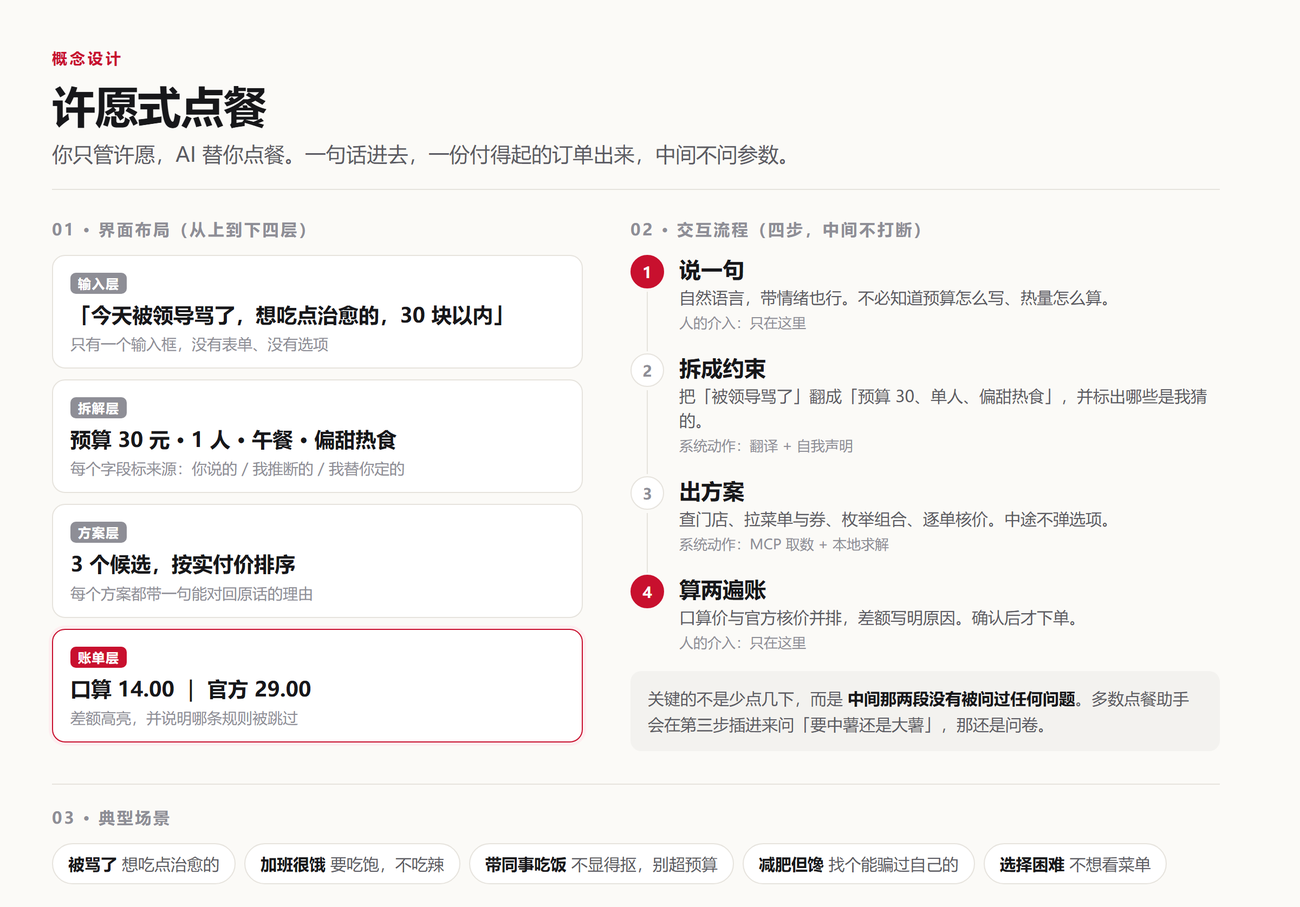
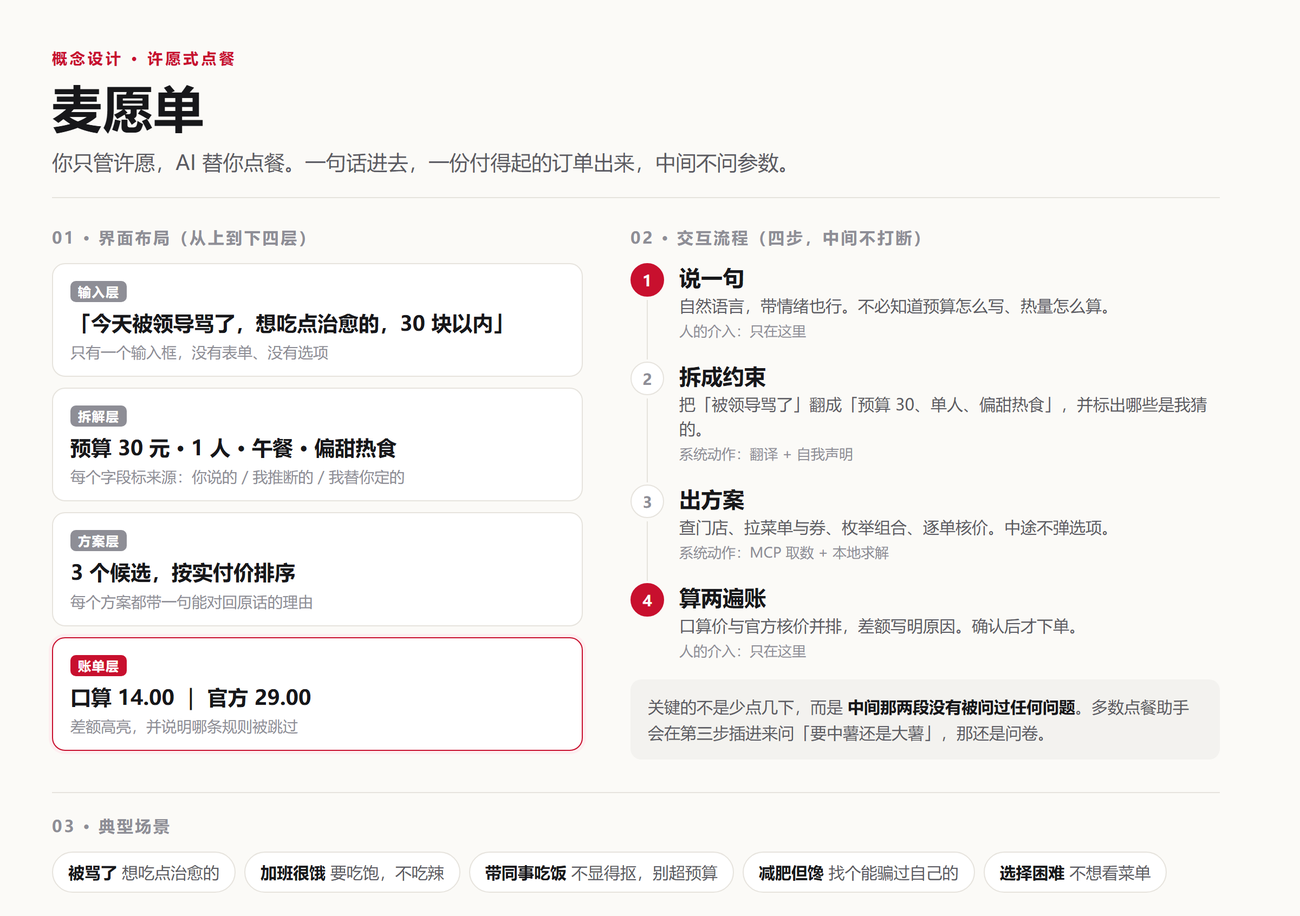
feat: 产品定名「麦愿单」，仓库地址落到 README
- README 标题：麦愿单 · 许愿式点餐
- 安装命令替换为真实仓库地址（原来是占位，clone 命令是断的）
- 演示页 title 与 kicker、概念设计图标题、SKILL.md、模块注释同步
- 概念图重渲染（品牌名 46px，视觉重心落到名字上）

diff --git a/docs/index.html b/docs/index.html
@@ -3,7 +3,7 @@
 <head>
 <meta charset="utf-8">
 <meta name="viewport" content="width=device-width, initial-scale=1">
-<title>许愿式点餐 · 你说愿望，它报价格</title>
+<title>麦愿单 · 你只管许愿，AI 替你点餐</title>
 <link rel="icon" type="image/png" href="logo-32.png">
 <link rel="apple-touch-icon" href="logo.png">
 <style>
@@ -132,7 +132,7 @@
 <body>
 <div class="wrap">
   <header>
-    <div class="kicker">许愿式点餐</div>
+    <div class="kicker">麦愿单 · 许愿式点餐</div>
     <h1>你只管许愿，AI 替你点餐</h1>
     <p class="sub">说一句就够：不用看活动、不用看菜单，预算、套餐、优惠券全部搞定，你只管享受美味。</p>
   </header>
@@ -182,7 +182,7 @@
 </div>
 
 <script>
-const DATA = {"cases": [{"wish": {"raw": "今天被领导骂了一顿，想吃点能治愈的，别超过30块", "budget": 30.0, "people": 1, "meal_slot": "lunch", "moods": ["治愈"], "taste": ["sweet", "warm", "comfort"], "avoid": [], "undecided": false, "source": {"people": "default", "budget": "explicit", "meal_slot": "inferred"}, "notes": []}, "candidates": [{"name": "麦香鸡 + 派", "items": ["麦香鸡", "派"], "codes": ["1450", "9900008752"], "unit_count": 1, "score": 7.03, "reasons": ["命中偏好：sweet"], "price": {"naive": {"label": "AI 式口算", "subtotal": 29.0, "delivery_fee": 0.0, "discount": 15.0, "payable": 14.0, "applied": ["满 70 减 15"], "rejected": [], "notes": ["选了面额最大的「满 70 减 15」，但这单只有 29.00 元，差 41.00 元没到门槛", "另外 4 张券没有参与比较（互斥规则被跳过）"]}, "official": {"label": "官方口径", "subtotal": 29.0, "delivery_fee": 0.0, "discount": 0.0, "payable": 29.0, "applied": [], "rejected": ["满 30 减 6：未达门槛 30 元（当前 29.00 元）", "满 50 减 12：未达门槛 50 元（当前 29.00 元）", "满 70 减 15：未达门槛 70 元（当前 29.00 元）", "小食第二份半价：需同类别两件（小食），当前只有 1 件", "早餐满 15 减 5：仅早餐时段可用，当前是午餐", "甜品第二份 1 元：需同类别两件（甜品），当前只有 0 件", "满 40 减 8（外送专享）：仅外送可用，当前是到店"], "notes": []}, "unit_price": {"naive": 14.0, "official": 29.0}, "units": 1, "gap": 15.0, "gap_pct": 51.7, "verdict": "口算低估了实付金额"}, "payable": 29.0}, {"name": "麦香鸡 + 雪碧", "items": ["麦香鸡", "雪碧"], "codes": ["1450", "3060"], "unit_count": 1, "score": 4.77, "reasons": [], "price": {"naive": {"label": "AI 式口算", "subtotal": 31.0, "delivery_fee": 0.0, "discount": 15.0, "payable": 16.0, "applied": ["满 70 减 15"], "rejected": [], "notes": ["选了面额最大的「满 70 减 15」，但这单只有 31.00 元，差 39.00 元没到门槛", "另外 4 张券没有参与比较（互斥规则被跳过）"]}, "official": {"label": "官方口径", "subtotal": 31.0, "delivery_fee": 0.0, "discount": 6.0, "payable": 25.0, "applied": ["满 30 减 6"], "rejected": ["满 50 减 12：未达门槛 50 元（当前 31.00 元）", "满 70 减 15：未达门槛 70 元（当前 31.00 元）", "小食第二份半价：需同类别两件（小食），当前只有 0 件", "早餐满 15 减 5：仅早餐时段可用，当前是午餐", "甜品第二份 1 元：需同类别两件（甜品），当前只有 0 件", "满 40 减 8（外送专享）：仅外送可用，当前是到店"], "notes": ["按互斥规则只用一张：满 30 减 6（整单金额需达到 30 元）"]}, "unit_price": {"naive": 16.0, "official": 25.0}, "units": 1, "gap": 9.0, "gap_pct": 36.0, "verdict": "口算低估了实付金额"}, "payable": 25.0}, {"name": "麦香鸡 + 阳光柠檬红茶", "items": ["麦香鸡", "阳光柠檬红茶"], "codes": ["1450", "515281"], "unit_count": 1, "score": 4.77, "reasons": [], "price": {"naive": {"label": "AI 式口算", "subtotal": 31.0, "delivery_fee": 0.0, "discount": 15.0, "payable": 16.0, "applied": ["满 70 减 15"], "rejected": [], "notes": ["选了面额最大的「满 70 减 15」，但这单只有 31.00 元，差 39.00 元没到门槛", "另外 4 张券没有参与比较（互斥规则被跳过）"]}, "official": {"label": "官方口径", "subtotal": 31.0, "delivery_fee": 0.0, "discount": 6.0, "payable": 25.0, "applied": ["满 30 减 6"], "rejected": ["满 50 减 12：未达门槛 50 元（当前 31.00 元）", "满 70 减 15：未达门槛 70 元（当前 31.00 元）", "小食第二份半价：需同类别两件（小食），当前只有 0 件", "早餐满 15 减 5：仅早餐时段可用，当前是午餐", "甜品第二份 1 元：需同类别两件（甜品），当前只有 0 件", "满 40 减 8（外送专享）：仅外送可用，当前是到店"], "notes": ["按互斥规则只用一张：满 30 减 6（整单金额需达到 30 元）"]}, "unit_price": {"naive": 16.0, "official": 25.0}, "units": 1, "gap": 9.0, "gap_pct": 36.0, "verdict": "口算低估了实付金额"}, "payable": 25.0}]}, {"wish": {"raw": "周末家里四个人吃饭，随便，人均50以内", "budget": 200.0, "people": 4, "meal_slot": "lunch", "moods": [], "taste": [], "avoid": [], "undecided": true, "source": {"people": "explicit", "budget": "explicit", "meal_slot": "inferred"}, "notes": ["按人均 50 元 × 4 人 = 200 元", "听到「随便」了。不反问你，直接按大众口味给方案；哪一份不想要，说一声换掉就行"]}, "candidates": [{"name": "4 人分工：麦香鱼套餐 / 麦乐鸡套餐 / 双层吉士汉堡套餐 / 麦辣鸡腿汉堡三件套", "items": ["麦香鱼套餐", "麦乐鸡套餐", "双层吉士汉堡套餐", "麦辣鸡腿汉堡三件套"], "codes": ["9900005460", "9900004835", "9900005464", "9900005456"], "unit_count": 4, "score": 0, "reasons": ["4 种不同，覆盖 2 个品类，每人一份不同的"], "price": {"naive": {"label": "AI 式口算", "subtotal": 190.0, "delivery_fee": 0.0, "discount": 15.0, "payable": 175.0, "applied": ["满 70 减 15"], "rejected": [], "notes": ["另外 4 张券没有参与比较（互斥规则被跳过）"]}, "official": {"label": "官方口径", "subtotal": 190.0, "delivery_fee": 0.0, "discount": 15.0, "payable": 175.0, "applied": ["满 70 减 15"], "rejected": ["小食第二份半价：需同类别两件（小食），当前只有 1 件", "早餐满 15 减 5：仅早餐时段可用，当前是午餐", "甜品第二份 1 元：需同类别两件（甜品），当前只有 0 件", "满 40 减 8（外送专享）：仅外送可用，当前是到店"], "notes": ["按互斥规则只用一张：满 70 减 15（多人场景常见档位）"]}, "unit_price": {"naive": 175.0, "official": 175.0}, "units": 1, "gap": 0.0, "gap_pct": 0.0, "verdict": "两种算法一致"}, "payable": 175.0}]}, {"wish": {"raw": "明天要带三个同事吃饭，我不想显得抠，也不想超预算", "budget": 220.0, "people": 4, "meal_slot": "lunch", "moods": ["抠", "同事"], "taste": ["share", "variety", "large"], "avoid": [], "undecided": false, "source": {"people": "explicit", "meal_slot": "inferred", "budget": "default"}, "notes": ["你说带 三 个，按「你 + 他们」共 4 人算", "「不想显得抠」按「要体面、份量要够」理解", "你没说什么时候吃，按当前时间推的", "你没给金额，按每人 55 元 × 4 人 = 220 元先定，可以改"]}, "candidates": [{"name": "4 人分工：麦辣鸡翅4块套餐 / 不素之霸双层牛堡三件套 / 精选单人餐三件套 / 巨无霸三件套", "items": ["麦辣鸡翅4块套餐", "不素之霸双层牛堡三件套", "精选单人餐三件套", "巨无霸三件套"], "codes": ["9900005451", "9900005411", "9900004064", "9900005466"], "unit_count": 4, "score": 0, "reasons": ["4 种不同，覆盖 3 个品类，每人一份不同的"], "price": {"naive": {"label": "AI 式口算", "subtotal": 217.0, "delivery_fee": 0.0, "discount": 15.0, "payable": 202.0, "applied": ["满 70 减 15"], "rejected": [], "notes": ["另外 4 张券没有参与比较（互斥规则被跳过）"]}, "official": {"label": "官方口径", "subtotal": 217.0, "delivery_fee": 0.0, "discount": 15.0, "payable": 202.0, "applied": ["满 70 减 15"], "rejected": ["小食第二份半价：需同类别两件（小食），当前只有 1 件", "早餐满 15 减 5：仅早餐时段可用，当前是午餐", "甜品第二份 1 元：需同类别两件（甜品），当前只有 0 件", "满 40 减 8（外送专享）：仅外送可用，当前是到店"], "notes": ["按互斥规则只用一张：满 70 减 15（多人场景常见档位）"]}, "unit_price": {"naive": 202.0, "official": 202.0}, "units": 1, "gap": 0.0, "gap_pct": 0.0, "verdict": "两种算法一致"}, "payable": 202.0}]}, {"wish": {"raw": "减肥第三周，馋得不行，给我找个能骗过自己的", "budget": 55.0, "people": 1, "meal_slot": "lunch", "moods": ["减肥"], "taste": ["light", "lowcal"], "avoid": [], "undecided": false, "source": {"people": "default", "meal_slot": "inferred", "budget": "default"}, "notes": ["你没说什么时候吃，按当前时间推的", "你没给金额，按每人 55 元 × 1 人 = 55 元先定，可以改"]}, "candidates": [{"name": "不素之霸双层牛堡 + 燕麦奶铁", "items": ["不素之霸双层牛堡", "燕麦奶铁"], "codes": ["4648", "510479"], "unit_count": 1, "score": 13.53, "reasons": ["命中偏好：light、lowcal", "带了低卡项"], "price": {"naive": {"label": "AI 式口算", "subtotal": 56.5, "delivery_fee": 0.0, "discount": 15.0, "payable": 41.5, "applied": ["满 70 减 15"], "rejected": [], "notes": ["选了面额最大的「满 70 减 15」，但这单只有 56.50 元，差 13.50 元没到门槛", "另外 4 张券没有参与比较（互斥规则被跳过）"]}, "official": {"label": "官方口径", "subtotal": 56.5, "delivery_fee": 0.0, "discount": 12.0, "payable": 44.5, "applied": ["满 50 减 12"], "rejected": ["满 70 减 15：未达门槛 70 元（当前 56.50 元）", "小食第二份半价：需同类别两件（小食），当前只有 0 件", "早餐满 15 减 5：仅早餐时段可用，当前是午餐", "甜品第二份 1 元：需同类别两件（甜品），当前只有 0 件", "满 40 减 8（外送专享）：仅外送可用，当前是到店"], "notes": ["按互斥规则只用一张：满 50 减 12（整单金额需达到 50 元）"]}, "unit_price": {"naive": 41.5, "official": 44.5}, "units": 1, "gap": 3.0, "gap_pct": 6.7, "verdict": "口算低估了实付金额"}, "payable": 44.5}, {"name": "巨无霸 + 燕麦奶铁", "items": ["巨无霸", "燕麦奶铁"], "codes": ["1100", "510479"], "unit_count": 1, "score": 13.44, "reasons": ["命中偏好：light、lowcal", "带了低卡项"], "price": {"naive": {"label": "AI 式口算", "subtotal": 56.0, "delivery_fee": 0.0, "discount": 15.0, "payable": 41.0, "applied": ["满 70 减 15"], "rejected": [], "notes": ["选了面额最大的「满 70 减 15」，但这单只有 56.00 元，差 14.00 元没到门槛", "另外 4 张券没有参与比较（互斥规则被跳过）"]}, "official": {"label": "官方口径", "subtotal": 56.0, "delivery_fee": 0.0, "discount": 12.0, "payable": 44.0, "applied": ["满 50 减 12"], "rejected": ["满 70 减 15：未达门槛 70 元（当前 56.00 元）", "小食第二份半价：需同类别两件（小食），当前只有 0 件", "早餐满 15 减 5：仅早餐时段可用，当前是午餐", "甜品第二份 1 元：需同类别两件（甜品），当前只有 0 件", "满 40 减 8（外送专享）：仅外送可用，当前是到店"], "notes": ["按互斥规则只用一张：满 50 减 12（整单金额需达到 50 元）"]}, "unit_price": {"naive": 41.0, "official": 44.0}, "units": 1, "gap": 3.0, "gap_pct": 6.8, "verdict": "口算低估了实付金额"}, "payable": 44.0}, {"name": "双层吉士汉堡 + 麦咖啡™美式", "items": ["双层吉士汉堡", "麦咖啡™美式"], "codes": ["1120", "507411"], "unit_count": 1, "score": 13.35, "reasons": ["命中偏好：light、lowcal", "带了低卡项"], "price": {"naive": {"label": "AI 式口算", "subtotal": 49.5, "delivery_fee": 0.0, "discount": 15.0, "payable": 34.5, "applied": ["满 70 减 15"], "rejected": [], "notes": ["选了面额最大的「满 70 减 15」，但这单只有 49.50 元，差 20.50 元没到门槛", "另外 4 张券没有参与比较（互斥规则被跳过）"]}, "official": {"label": "官方口径", "subtotal": 49.5, "delivery_fee": 0.0, "discount": 6.0, "payable": 43.5, "applied": ["满 30 减 6"], "rejected": ["满 50 减 12：未达门槛 50 元（当前 49.50 元）", "满 70 减 15：未达门槛 70 元（当前 49.50 元）", "小食第二份半价：需同类别两件（小食），当前只有 0 件", "早餐满 15 减 5：仅早餐时段可用，当前是午餐", "甜品第二份 1 元：需同类别两件（甜品），当前只有 0 件", "满 40 减 8（外送专享）：仅外送可用，当前是到店"], "notes": ["按互斥规则只用一张：满 30 减 6（整单金额需达到 30 元）"]}, "unit_price": {"naive": 34.5, "official": 43.5}, "units": 1, "gap": 9.0, "gap_pct": 20.7, "verdict": "口算低估了实付金额"}, "payable": 43.5}]}, {"wish": {"raw": "加班到现在，很饿，想吃饱一点，不吃辣", "budget": 55.0, "people": 1, "meal_slot": "lunch", "moods": ["加班", "很饿", "饱"], "taste": ["filling", "staple", "large"], "avoid": ["spicy"], "undecided": false, "source": {"people": "default", "meal_slot": "inferred", "budget": "default"}, "notes": ["你没说什么时候吃，按当前时间推的", "你没给金额，按每人 55 元 × 1 人 = 55 元先定，可以改"]}, "candidates": [{"name": "不素之霸双层牛堡 + 麦麦脆汁鸡1块 + 【美汁源】“黄金橙橙”", "items": ["不素之霸双层牛堡", "麦麦脆汁鸡1块", "【美汁源】“黄金橙橙”"], "codes": ["4648", "9900005432", "2430"], "unit_count": 1, "score": 8.21, "reasons": ["命中偏好：staple"], "price": {"naive": {"label": "AI 式口算", "subtotal": 60.5, "delivery_fee": 0.0, "discount": 15.0, "payable": 45.5, "applied": ["满 70 减 15"], "rejected": [], "notes": ["选了面额最大的「满 70 减 15」，但这单只有 60.50 元，差 9.50 元没到门槛", "另外 4 张券没有参与比较（互斥规则被跳过）"]}, "official": {"label": "官方口径", "subtotal": 60.5, "delivery_fee": 0.0, "discount": 12.0, "payable": 48.5, "applied": ["满 50 减 12"], "rejected": ["满 70 减 15：未达门槛 70 元（当前 60.50 元）", "小食第二份半价：需同类别两件（小食），当前只有 1 件", "早餐满 15 减 5：仅早餐时段可用，当前是午餐", "甜品第二份 1 元：需同类别两件（甜品），当前只有 0 件", "满 40 减 8（外送专享）：仅外送可用，当前是到店"], "notes": ["按互斥规则只用一张：满 50 减 12（整单金额需达到 50 元）"]}, "unit_price": {"naive": 45.5, "official": 48.5}, "units": 1, "gap": 3.0, "gap_pct": 6.2, "verdict": "口算低估了实付金额"}, "payable": 48.5}, {"name": "双层深海鳕鱼堡 + 派 + 牛奶", "items": ["双层深海鳕鱼堡", "派", "牛奶"], "codes": ["9900003586", "9900008752", "507394"], "unit_count": 1, "score": 8.21, "reasons": ["命中偏好：staple"], "price": {"naive": {"label": "AI 式口算", "subtotal": 60.5, "delivery_fee": 0.0, "discount": 15.0, "payable": 45.5, "applied": ["满 70 减 15"], "rejected": [], "notes": ["选了面额最大的「满 70 减 15」，但这单只有 60.50 元，差 9.50 元没到门槛", "另外 4 张券没有参与比较（互斥规则被跳过）"]}, "official": {"label": "官方口径", "subtotal": 60.5, "delivery_fee": 0.0, "discount": 12.0, "payable": 48.5, "applied": ["满 50 减 12"], "rejected": ["满 70 减 15：未达门槛 70 元（当前 60.50 元）", "小食第二份半价：需同类别两件（小食），当前只有 1 件", "早餐满 15 减 5：仅早餐时段可用，当前是午餐", "甜品第二份 1 元：需同类别两件（甜品），当前只有 0 件", "满 40 减 8（外送专享）：仅外送可用，当前是到店"], "notes": ["按互斥规则只用一张：满 50 减 12（整单金额需达到 50 元）"]}, "unit_price": {"naive": 45.5, "official": 48.5}, "units": 1, "gap": 3.0, "gap_pct": 6.2, "verdict": "口算低估了实付金额"}, "payable": 48.5}, {"name": "双层深海鳕鱼堡 + 派 + 麦咖啡™美式", "items": ["双层深海鳕鱼堡", "派", "麦咖啡™美式"], "codes": ["9900003586", "9900008752", "507411"], "unit_count": 1, "score": 8.21, "reasons": ["命中偏好：staple"], "price": {"naive": {"label": "AI 式口算", "subtotal": 60.5, "delivery_fee": 0.0, "discount": 15.0, "payable": 45.5, "applied": ["满 70 减 15"], "rejected": [], "notes": ["选了面额最大的「满 70 减 15」，但这单只有 60.50 元，差 9.50 元没到门槛", "另外 4 张券没有参与比较（互斥规则被跳过）"]}, "official": {"label": "官方口径", "subtotal": 60.5, "delivery_fee": 0.0, "discount": 12.0, "payable": 48.5, "applied": ["满 50 减 12"], "rejected": ["满 70 减 15：未达门槛 70 元（当前 60.50 元）", "小食第二份半价：需同类别两件（小食），当前只有 1 件", "早餐满 15 减 5：仅早餐时段可用，当前是午餐", "甜品第二份 1 元：需同类别两件（甜品），当前只有 0 件", "满 40 减 8（外送专享）：仅外送可用，当前是到店"], "notes": ["按互斥规则只用一张：满 50 减 12（整单金额需达到 50 元）"]}, "unit_price": {"naive": 45.5, "official": 48.5}, "units": 1, "gap": 3.0, "gap_pct": 6.2, "verdict": "口算低估了实付金额"}, "payable": 48.5}]}], "source_note": "菜单与价格来自麦当劳 MCP 的 query-meals 真实返回（2026-10-21 11:02 抓取，门店 麦当劳北京西客站南候车室餐厅）；券为示例数据，因测试账号券包为空。价格以麦当劳官方渠道实时结果为准。", "generated_at": "2026-10-21 15:30"};
+const DATA = {"cases": [{"wish": {"raw": "今天被领导骂了一顿，想吃点能治愈的，别超过30块", "budget": 30.0, "people": 1, "meal_slot": "lunch", "moods": ["治愈"], "taste": ["sweet", "warm", "comfort"], "avoid": [], "undecided": false, "source": {"people": "default", "budget": "explicit", "meal_slot": "inferred"}, "notes": []}, "candidates": [{"name": "麦香鸡 + 派", "items": ["麦香鸡", "派"], "codes": ["1450", "9900008752"], "unit_count": 1, "score": 7.03, "reasons": ["命中偏好：sweet"], "price": {"naive": {"label": "AI 式口算", "subtotal": 29.0, "delivery_fee": 0.0, "discount": 15.0, "payable": 14.0, "applied": ["满 70 减 15"], "rejected": [], "notes": ["选了面额最大的「满 70 减 15」，但这单只有 29.00 元，差 41.00 元没到门槛", "另外 4 张券没有参与比较（互斥规则被跳过）"]}, "official": {"label": "官方口径", "subtotal": 29.0, "delivery_fee": 0.0, "discount": 0.0, "payable": 29.0, "applied": [], "rejected": ["满 30 减 6：未达门槛 30 元（当前 29.00 元）", "满 50 减 12：未达门槛 50 元（当前 29.00 元）", "满 70 减 15：未达门槛 70 元（当前 29.00 元）", "小食第二份半价：需同类别两件（小食），当前只有 1 件", "早餐满 15 减 5：仅早餐时段可用，当前是午餐", "甜品第二份 1 元：需同类别两件（甜品），当前只有 0 件", "满 40 减 8（外送专享）：仅外送可用，当前是到店"], "notes": []}, "unit_price": {"naive": 14.0, "official": 29.0}, "units": 1, "gap": 15.0, "gap_pct": 51.7, "verdict": "口算低估了实付金额"}, "payable": 29.0}, {"name": "麦香鸡 + 雪碧", "items": ["麦香鸡", "雪碧"], "codes": ["1450", "3060"], "unit_count": 1, "score": 4.77, "reasons": [], "price": {"naive": {"label": "AI 式口算", "subtotal": 31.0, "delivery_fee": 0.0, "discount": 15.0, "payable": 16.0, "applied": ["满 70 减 15"], "rejected": [], "notes": ["选了面额最大的「满 70 减 15」，但这单只有 31.00 元，差 39.00 元没到门槛", "另外 4 张券没有参与比较（互斥规则被跳过）"]}, "official": {"label": "官方口径", "subtotal": 31.0, "delivery_fee": 0.0, "discount": 6.0, "payable": 25.0, "applied": ["满 30 减 6"], "rejected": ["满 50 减 12：未达门槛 50 元（当前 31.00 元）", "满 70 减 15：未达门槛 70 元（当前 31.00 元）", "小食第二份半价：需同类别两件（小食），当前只有 0 件", "早餐满 15 减 5：仅早餐时段可用，当前是午餐", "甜品第二份 1 元：需同类别两件（甜品），当前只有 0 件", "满 40 减 8（外送专享）：仅外送可用，当前是到店"], "notes": ["按互斥规则只用一张：满 30 减 6（整单金额需达到 30 元）"]}, "unit_price": {"naive": 16.0, "official": 25.0}, "units": 1, "gap": 9.0, "gap_pct": 36.0, "verdict": "口算低估了实付金额"}, "payable": 25.0}, {"name": "麦香鸡 + 阳光柠檬红茶", "items": ["麦香鸡", "阳光柠檬红茶"], "codes": ["1450", "515281"], "unit_count": 1, "score": 4.77, "reasons": [], "price": {"naive": {"label": "AI 式口算", "subtotal": 31.0, "delivery_fee": 0.0, "discount": 15.0, "payable": 16.0, "applied": ["满 70 减 15"], "rejected": [], "notes": ["选了面额最大的「满 70 减 15」，但这单只有 31.00 元，差 39.00 元没到门槛", "另外 4 张券没有参与比较（互斥规则被跳过）"]}, "official": {"label": "官方口径", "subtotal": 31.0, "delivery_fee": 0.0, "discount": 6.0, "payable": 25.0, "applied": ["满 30 减 6"], "rejected": ["满 50 减 12：未达门槛 50 元（当前 31.00 元）", "满 70 减 15：未达门槛 70 元（当前 31.00 元）", "小食第二份半价：需同类别两件（小食），当前只有 0 件", "早餐满 15 减 5：仅早餐时段可用，当前是午餐", "甜品第二份 1 元：需同类别两件（甜品），当前只有 0 件", "满 40 减 8（外送专享）：仅外送可用，当前是到店"], "notes": ["按互斥规则只用一张：满 30 减 6（整单金额需达到 30 元）"]}, "unit_price": {"naive": 16.0, "official": 25.0}, "units": 1, "gap": 9.0, "gap_pct": 36.0, "verdict": "口算低估了实付金额"}, "payable": 25.0}]}, {"wish": {"raw": "周末家里四个人吃饭，随便，人均50以内", "budget": 200.0, "people": 4, "meal_slot": "lunch", "moods": [], "taste": [], "avoid": [], "undecided": true, "source": {"people": "explicit", "budget": "explicit", "meal_slot": "inferred"}, "notes": ["按人均 50 元 × 4 人 = 200 元", "听到「随便」了。不反问你，直接按大众口味给方案；哪一份不想要，说一声换掉就行"]}, "candidates": [{"name": "4 人分工：麦香鱼套餐 / 麦乐鸡套餐 / 双层吉士汉堡套餐 / 麦辣鸡腿汉堡三件套", "items": ["麦香鱼套餐", "麦乐鸡套餐", "双层吉士汉堡套餐", "麦辣鸡腿汉堡三件套"], "codes": ["9900005460", "9900004835", "9900005464", "9900005456"], "unit_count": 4, "score": 0, "reasons": ["4 种不同，覆盖 2 个品类，每人一份不同的"], "price": {"naive": {"label": "AI 式口算", "subtotal": 190.0, "delivery_fee": 0.0, "discount": 15.0, "payable": 175.0, "applied": ["满 70 减 15"], "rejected": [], "notes": ["另外 4 张券没有参与比较（互斥规则被跳过）"]}, "official": {"label": "官方口径", "subtotal": 190.0, "delivery_fee": 0.0, "discount": 15.0, "payable": 175.0, "applied": ["满 70 减 15"], "rejected": ["小食第二份半价：需同类别两件（小食），当前只有 1 件", "早餐满 15 减 5：仅早餐时段可用，当前是午餐", "甜品第二份 1 元：需同类别两件（甜品），当前只有 0 件", "满 40 减 8（外送专享）：仅外送可用，当前是到店"], "notes": ["按互斥规则只用一张：满 70 减 15（多人场景常见档位）"]}, "unit_price": {"naive": 175.0, "official": 175.0}, "units": 1, "gap": 0.0, "gap_pct": 0.0, "verdict": "两种算法一致"}, "payable": 175.0}]}, {"wish": {"raw": "明天要带三个同事吃饭，我不想显得抠，也不想超预算", "budget": 220.0, "people": 4, "meal_slot": "lunch", "moods": ["抠", "同事"], "taste": ["share", "variety", "large"], "avoid": [], "undecided": false, "source": {"people": "explicit", "meal_slot": "inferred", "budget": "default"}, "notes": ["你说带 三 个，按「你 + 他们」共 4 人算", "「不想显得抠」按「要体面、份量要够」理解", "你没说什么时候吃，按当前时间推的", "你没给金额，按每人 55 元 × 4 人 = 220 元先定，可以改"]}, "candidates": [{"name": "4 人分工：麦辣鸡翅4块套餐 / 不素之霸双层牛堡三件套 / 精选单人餐三件套 / 巨无霸三件套", "items": ["麦辣鸡翅4块套餐", "不素之霸双层牛堡三件套", "精选单人餐三件套", "巨无霸三件套"], "codes": ["9900005451", "9900005411", "9900004064", "9900005466"], "unit_count": 4, "score": 0, "reasons": ["4 种不同，覆盖 3 个品类，每人一份不同的"], "price": {"naive": {"label": "AI 式口算", "subtotal": 217.0, "delivery_fee": 0.0, "discount": 15.0, "payable": 202.0, "applied": ["满 70 减 15"], "rejected": [], "notes": ["另外 4 张券没有参与比较（互斥规则被跳过）"]}, "official": {"label": "官方口径", "subtotal": 217.0, "delivery_fee": 0.0, "discount": 15.0, "payable": 202.0, "applied": ["满 70 减 15"], "rejected": ["小食第二份半价：需同类别两件（小食），当前只有 1 件", "早餐满 15 减 5：仅早餐时段可用，当前是午餐", "甜品第二份 1 元：需同类别两件（甜品），当前只有 0 件", "满 40 减 8（外送专享）：仅外送可用，当前是到店"], "notes": ["按互斥规则只用一张：满 70 减 15（多人场景常见档位）"]}, "unit_price": {"naive": 202.0, "official": 202.0}, "units": 1, "gap": 0.0, "gap_pct": 0.0, "verdict": "两种算法一致"}, "payable": 202.0}]}, {"wish": {"raw": "减肥第三周，馋得不行，给我找个能骗过自己的", "budget": 55.0, "people": 1, "meal_slot": "lunch", "moods": ["减肥"], "taste": ["light", "lowcal"], "avoid": [], "undecided": false, "source": {"people": "default", "meal_slot": "inferred", "budget": "default"}, "notes": ["你没说什么时候吃，按当前时间推的", "你没给金额，按每人 55 元 × 1 人 = 55 元先定，可以改"]}, "candidates": [{"name": "不素之霸双层牛堡 + 燕麦奶铁", "items": ["不素之霸双层牛堡", "燕麦奶铁"], "codes": ["4648", "510479"], "unit_count": 1, "score": 13.53, "reasons": ["命中偏好：light、lowcal", "带了低卡项"], "price": {"naive": {"label": "AI 式口算", "subtotal": 56.5, "delivery_fee": 0.0, "discount": 15.0, "payable": 41.5, "applied": ["满 70 减 15"], "rejected": [], "notes": ["选了面额最大的「满 70 减 15」，但这单只有 56.50 元，差 13.50 元没到门槛", "另外 4 张券没有参与比较（互斥规则被跳过）"]}, "official": {"label": "官方口径", "subtotal": 56.5, "delivery_fee": 0.0, "discount": 12.0, "payable": 44.5, "applied": ["满 50 减 12"], "rejected": ["满 70 减 15：未达门槛 70 元（当前 56.50 元）", "小食第二份半价：需同类别两件（小食），当前只有 0 件", "早餐满 15 减 5：仅早餐时段可用，当前是午餐", "甜品第二份 1 元：需同类别两件（甜品），当前只有 0 件", "满 40 减 8（外送专享）：仅外送可用，当前是到店"], "notes": ["按互斥规则只用一张：满 50 减 12（整单金额需达到 50 元）"]}, "unit_price": {"naive": 41.5, "official": 44.5}, "units": 1, "gap": 3.0, "gap_pct": 6.7, "verdict": "口算低估了实付金额"}, "payable": 44.5}, {"name": "巨无霸 + 燕麦奶铁", "items": ["巨无霸", "燕麦奶铁"], "codes": ["1100", "510479"], "unit_count": 1, "score": 13.44, "reasons": ["命中偏好：light、lowcal", "带了低卡项"], "price": {"naive": {"label": "AI 式口算", "subtotal": 56.0, "delivery_fee": 0.0, "discount": 15.0, "payable": 41.0, "applied": ["满 70 减 15"], "rejected": [], "notes": ["选了面额最大的「满 70 减 15」，但这单只有 56.00 元，差 14.00 元没到门槛", "另外 4 张券没有参与比较（互斥规则被跳过）"]}, "official": {"label": "官方口径", "subtotal": 56.0, "delivery_fee": 0.0, "discount": 12.0, "payable": 44.0, "applied": ["满 50 减 12"], "rejected": ["满 70 减 15：未达门槛 70 元（当前 56.00 元）", "小食第二份半价：需同类别两件（小食），当前只有 0 件", "早餐满 15 减 5：仅早餐时段可用，当前是午餐", "甜品第二份 1 元：需同类别两件（甜品），当前只有 0 件", "满 40 减 8（外送专享）：仅外送可用，当前是到店"], "notes": ["按互斥规则只用一张：满 50 减 12（整单金额需达到 50 元）"]}, "unit_price": {"naive": 41.0, "official": 44.0}, "units": 1, "gap": 3.0, "gap_pct": 6.8, "verdict": "口算低估了实付金额"}, "payable": 44.0}, {"name": "双层吉士汉堡 + 麦咖啡™美式", "items": ["双层吉士汉堡", "麦咖啡™美式"], "codes": ["1120", "507411"], "unit_count": 1, "score": 13.35, "reasons": ["命中偏好：light、lowcal", "带了低卡项"], "price": {"naive": {"label": "AI 式口算", "subtotal": 49.5, "delivery_fee": 0.0, "discount": 15.0, "payable": 34.5, "applied": ["满 70 减 15"], "rejected": [], "notes": ["选了面额最大的「满 70 减 15」，但这单只有 49.50 元，差 20.50 元没到门槛", "另外 4 张券没有参与比较（互斥规则被跳过）"]}, "official": {"label": "官方口径", "subtotal": 49.5, "delivery_fee": 0.0, "discount": 6.0, "payable": 43.5, "applied": ["满 30 减 6"], "rejected": ["满 50 减 12：未达门槛 50 元（当前 49.50 元）", "满 70 减 15：未达门槛 70 元（当前 49.50 元）", "小食第二份半价：需同类别两件（小食），当前只有 0 件", "早餐满 15 减 5：仅早餐时段可用，当前是午餐", "甜品第二份 1 元：需同类别两件（甜品），当前只有 0 件", "满 40 减 8（外送专享）：仅外送可用，当前是到店"], "notes": ["按互斥规则只用一张：满 30 减 6（整单金额需达到 30 元）"]}, "unit_price": {"naive": 34.5, "official": 43.5}, "units": 1, "gap": 9.0, "gap_pct": 20.7, "verdict": "口算低估了实付金额"}, "payable": 43.5}]}, {"wish": {"raw": "加班到现在，很饿，想吃饱一点，不吃辣", "budget": 55.0, "people": 1, "meal_slot": "lunch", "moods": ["加班", "很饿", "饱"], "taste": ["filling", "staple", "large"], "avoid": ["spicy"], "undecided": false, "source": {"people": "default", "meal_slot": "inferred", "budget": "default"}, "notes": ["你没说什么时候吃，按当前时间推的", "你没给金额，按每人 55 元 × 1 人 = 55 元先定，可以改"]}, "candidates": [{"name": "不素之霸双层牛堡 + 麦麦脆汁鸡1块 + 【美汁源】“黄金橙橙”", "items": ["不素之霸双层牛堡", "麦麦脆汁鸡1块", "【美汁源】“黄金橙橙”"], "codes": ["4648", "9900005432", "2430"], "unit_count": 1, "score": 8.21, "reasons": ["命中偏好：staple"], "price": {"naive": {"label": "AI 式口算", "subtotal": 60.5, "delivery_fee": 0.0, "discount": 15.0, "payable": 45.5, "applied": ["满 70 减 15"], "rejected": [], "notes": ["选了面额最大的「满 70 减 15」，但这单只有 60.50 元，差 9.50 元没到门槛", "另外 4 张券没有参与比较（互斥规则被跳过）"]}, "official": {"label": "官方口径", "subtotal": 60.5, "delivery_fee": 0.0, "discount": 12.0, "payable": 48.5, "applied": ["满 50 减 12"], "rejected": ["满 70 减 15：未达门槛 70 元（当前 60.50 元）", "小食第二份半价：需同类别两件（小食），当前只有 1 件", "早餐满 15 减 5：仅早餐时段可用，当前是午餐", "甜品第二份 1 元：需同类别两件（甜品），当前只有 0 件", "满 40 减 8（外送专享）：仅外送可用，当前是到店"], "notes": ["按互斥规则只用一张：满 50 减 12（整单金额需达到 50 元）"]}, "unit_price": {"naive": 45.5, "official": 48.5}, "units": 1, "gap": 3.0, "gap_pct": 6.2, "verdict": "口算低估了实付金额"}, "payable": 48.5}, {"name": "双层深海鳕鱼堡 + 派 + 牛奶", "items": ["双层深海鳕鱼堡", "派", "牛奶"], "codes": ["9900003586", "9900008752", "507394"], "unit_count": 1, "score": 8.21, "reasons": ["命中偏好：staple"], "price": {"naive": {"label": "AI 式口算", "subtotal": 60.5, "delivery_fee": 0.0, "discount": 15.0, "payable": 45.5, "applied": ["满 70 减 15"], "rejected": [], "notes": ["选了面额最大的「满 70 减 15」，但这单只有 60.50 元，差 9.50 元没到门槛", "另外 4 张券没有参与比较（互斥规则被跳过）"]}, "official": {"label": "官方口径", "subtotal": 60.5, "delivery_fee": 0.0, "discount": 12.0, "payable": 48.5, "applied": ["满 50 减 12"], "rejected": ["满 70 减 15：未达门槛 70 元（当前 60.50 元）", "小食第二份半价：需同类别两件（小食），当前只有 1 件", "早餐满 15 减 5：仅早餐时段可用，当前是午餐", "甜品第二份 1 元：需同类别两件（甜品），当前只有 0 件", "满 40 减 8（外送专享）：仅外送可用，当前是到店"], "notes": ["按互斥规则只用一张：满 50 减 12（整单金额需达到 50 元）"]}, "unit_price": {"naive": 45.5, "official": 48.5}, "units": 1, "gap": 3.0, "gap_pct": 6.2, "verdict": "口算低估了实付金额"}, "payable": 48.5}, {"name": "双层深海鳕鱼堡 + 派 + 麦咖啡™美式", "items": ["双层深海鳕鱼堡", "派", "麦咖啡™美式"], "codes": ["9900003586", "9900008752", "507411"], "unit_count": 1, "score": 8.21, "reasons": ["命中偏好：staple"], "price": {"naive": {"label": "AI 式口算", "subtotal": 60.5, "delivery_fee": 0.0, "discount": 15.0, "payable": 45.5, "applied": ["满 70 减 15"], "rejected": [], "notes": ["选了面额最大的「满 70 减 15」，但这单只有 60.50 元，差 9.50 元没到门槛", "另外 4 张券没有参与比较（互斥规则被跳过）"]}, "official": {"label": "官方口径", "subtotal": 60.5, "delivery_fee": 0.0, "discount": 12.0, "payable": 48.5, "applied": ["满 50 减 12"], "rejected": ["满 70 减 15：未达门槛 70 元（当前 60.50 元）", "小食第二份半价：需同类别两件（小食），当前只有 1 件", "早餐满 15 减 5：仅早餐时段可用，当前是午餐", "甜品第二份 1 元：需同类别两件（甜品），当前只有 0 件", "满 40 减 8（外送专享）：仅外送可用，当前是到店"], "notes": ["按互斥规则只用一张：满 50 减 12（整单金额需达到 50 元）"]}, "unit_price": {"naive": 45.5, "official": 48.5}, "units": 1, "gap": 3.0, "gap_pct": 6.2, "verdict": "口算低估了实付金额"}, "payable": 48.5}]}], "source_note": "菜单与价格来自麦当劳 MCP 的 query-meals 真实返回（2026-10-21 11:02 抓取，门店 麦当劳北京西客站南候车室餐厅）；券为示例数据，因测试账号券包为空。价格以麦当劳官方渠道实时结果为准。", "generated_at": "2026-10-21 15:54"};
 const SLOT = {breakfast:"早餐", lunch:"午餐", dinner:"晚餐", latenight:"夜宵"};
 const SRC = {explicit:"你说的", inferred:"我推断的", default:"我替你定的"};
 const _h = parseInt((location.hash || "").replace("#c", ""), 10);

diff --git a/docs/concept-src.html b/docs/concept-src.html
@@ -2,7 +2,7 @@
 <html lang="zh-CN">
 <head>
 <meta charset="utf-8">
-<title>许愿式点餐 · 概念设计</title>
+<title>麦愿单 · 概念设计</title>
 <style>
   :root{
     --ink:#17171a; --ink2:#5b5b63; --ink3:#8e8e96;
@@ -18,7 +18,7 @@
   .canvas{padding:44px 48px 40px}
   header{border-bottom:1px solid var(--line);padding-bottom:20px;margin-bottom:26px}
   .kicker{font-size:14px;letter-spacing:.18em;color:var(--red);font-weight:700}
-  h1{font-size:40px;letter-spacing:-.01em;margin:8px 0 6px;font-weight:700}
+  h1{font-size:46px;letter-spacing:.02em;margin:6px 0 8px;font-weight:700}
   header p{font-size:19px;color:var(--ink2)}
 
   .body{display:grid;grid-template-columns:490px 1fr;gap:44px}
@@ -75,8 +75,8 @@
 <body>
 <div class="canvas">
   <header>
-    <div class="kicker">概念设计</div>
-    <h1>许愿式点餐</h1>
+    <div class="kicker">概念设计 · 许愿式点餐</div>
+    <h1>麦愿单</h1>
     <p>你只管许愿，AI 替你点餐。一句话进去，一份付得起的订单出来，中间不问参数。</p>
   </header>
 

diff --git a/scripts/report.py b/scripts/report.py
@@ -14,7 +14,7 @@ TEMPLATE = """<!DOCTYPE html>
 <head>
 <meta charset="utf-8">
 <meta name="viewport" content="width=device-width, initial-scale=1">
-<title>许愿式点餐 · 你说愿望，它报价格</title>
+<title>麦愿单 · 你只管许愿，AI 替你点餐</title>
 <link rel="icon" type="image/png" href="logo-32.png">
 <link rel="apple-touch-icon" href="logo.png">
 <style>
@@ -143,7 +143,7 @@ TEMPLATE = """<!DOCTYPE html>
 <body>
 <div class="wrap">
   <header>
-    <div class="kicker">许愿式点餐</div>
+    <div class="kicker">麦愿单 · 许愿式点餐</div>
     <h1>你只管许愿，AI 替你点餐</h1>
     <p class="sub">说一句就够：不用看活动、不用看菜单，预算、套餐、优惠券全部搞定，你只管享受美味。</p>
   </header>

diff --git a/scripts/wish_engine.py b/scripts/wish_engine.py
@@ -1,6 +1,6 @@
 """愿望 → 约束翻译器。
 
-「许愿式点餐」的第一层：用户说的是愿望，不是参数。
+「麦愿单」的第一层：用户说的是愿望，不是参数。
 本模块负责把一句带情绪的模糊输入，翻译成可执行的硬约束，并且把每个字段的
 来源标出来（显式给出的 / 我替你猜的），让用户能看见 AI 在做什么判断。
 

diff --git a/wish.py b/wish.py
@@ -1,5 +1,5 @@
 #!/usr/bin/env python3
-"""许愿式点餐 · 命令行入口
+"""麦愿单（许愿式点餐）· 命令行入口
 
 用法：
     python wish.py "今天被领导骂了一顿，想吃点能治愈的，别超过30块"

diff --git a/README.md b/README.md
@@ -1,8 +1,8 @@
 <p align="center">
-  <img src="docs/logo.png" alt="许愿式点餐" width="104">
+  <img src="docs/logo.png" alt="麦愿单" width="104">
 </p>
 
-# 许愿式点餐 · mcd-wish-order
+# 麦愿单 · 许愿式点餐
 
 **你只管许愿，AI 替你点餐。**
 
@@ -76,7 +76,7 @@ AI 式口算           14.00 元   扣 15.00
 
 ## 概念设计
 
-![许愿式点餐概念设计](docs/concept-design.png)
+![麦愿单概念设计](docs/concept-design.png)
 
 *图 1：左侧为界面从上到下的四层结构（输入 / 拆解 / 方案 / 账单），右侧为四步交互流程，标出了人的介入只出现在首尾两端；底部为五类典型场景。*
 
@@ -172,7 +172,7 @@ AI 擅长把「我 emo 了」翻译成「预算 30、单人、偏甜热食」，
 
 ### 图标
 
-<img src="docs/logo.png" alt="许愿式点餐图标" width="88">
+<img src="docs/logo.png" alt="麦愿单图标" width="88">
 
 一张带锯齿边的小票，右上角压着一颗四角星。小票是账单，星是许愿：**愿望落在账单上**，就是这件作品的全部。
 
@@ -251,7 +251,7 @@ export MCD_MCP_TOKEN="你的 token"     # Windows: set MCD_MCP_TOKEN=...
 无需安装任何第三方依赖，Python 3.9+ 即可（本仓库只用标准库）。
 
 ```bash
-git clone <本仓库地址>
+git clone https://github.com/2pang/mcd-wish-order.git
 cd mcd-wish-order
 
 # 跑内置示例（不需要 Token）

diff --git a/skills/mcd-wish-order/SKILL.md b/skills/mcd-wish-order/SKILL.md
@@ -3,7 +3,7 @@ name: mcd-wish-order
 description: 许愿式点餐。用户说一句带情绪的愿望（如「今天被领导骂了，想吃点治愈的，30 块以内」），自动拆解为可执行约束，从麦当劳 MCP 拉菜单与优惠券，给出可下单的方案，并把「AI 口算价」与「官方核价」并排展示。用户提到想吃什么、预算、点麦当劳、算券、怕被坑价时使用。
 ---
 
-# 许愿式点餐
+# 麦愿单（许愿式点餐）
 
 ## 什么时候用
 
